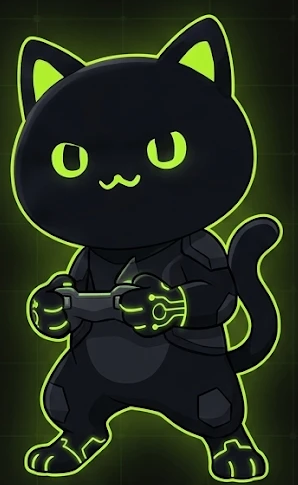
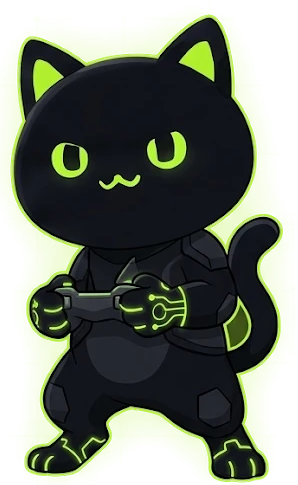
fix(ui): 로그인·가입 화면 반응형 정리, 마스코트 PNG 배경 투명화 (#128)
- AuthLayout: lg 이상 2열 grid(최대 1120px·세로 가운데), 그 아래 작은 브랜드 띠 + 1열 폼
- mascot-controller.png 배경을 투명으로(외곽 글로우는 반투명으로 유지)

diff --git a/frontend/src/features/auth/components/AuthLayout.tsx b/frontend/src/features/auth/components/AuthLayout.tsx
@@ -1,19 +1,28 @@
 import type { ReactNode } from 'react'
 
-// 로그인·가입 공통 2단: 왼쪽 브랜드 패널(md 이상) + 오른쪽 폼. 보드는 셸 없는 전체 화면이지만 셸(헤더·사이드바) 안에서 그린다.
+// 로그인·가입 공통: lg 이상 2열(브랜드 패널 + 폼, 최대 폭·세로 가운데), 그 아래는 작은 브랜드 띠 + 1열 폼. 보드는 셸 없는 전체 화면이지만 셸(헤더·사이드바) 안에서 그린다.
 export default function AuthLayout({ hero, children }: { hero: ReactNode; children: ReactNode }) {
   return (
-    <div className='flex flex-wrap gap-6 lg:gap-10'>
+    <div className='mx-auto grid w-full max-w-[1120px] gap-6 lg:min-h-[calc(100dvh-10rem)] lg:grid-cols-[minmax(0,1fr)_minmax(380px,440px)] lg:items-center lg:gap-12'>
       <section
-        className='chamfer relative hidden min-h-[460px] grow basis-[420px] flex-col overflow-hidden bg-surface bg-cover bg-center p-10 [--c:12px] md:flex'
+        className='chamfer relative flex items-center justify-between gap-4 overflow-hidden bg-surface bg-cover bg-center px-5 py-4 [--c:8px] lg:hidden'
+        style={{ backgroundImage: 'url(/brand/bg-speed.jpg)' }}
+      >
+        <div className='absolute inset-0 bg-linear-to-r from-bg/20 to-bg/75' />
+        <div className='relative flex flex-col gap-2'>
+          <img src='/brand/logo-flutch.png' alt='FLUTCH' className='h-8 self-start' />
+          <span className='font-display text-sm font-bold tracking-wide text-brand italic'>Feel the Moment. Live on FLUTCH.</span>
+        </div>
+        <img src='/brand/mascot-controller.png' alt='' className='relative h-24 w-auto shrink-0 object-contain' />
+      </section>
+      <section
+        className='chamfer relative hidden min-h-[520px] flex-col overflow-hidden bg-surface bg-cover bg-center p-10 [--c:12px] lg:flex'
         style={{ backgroundImage: 'url(/brand/bg-speed.jpg)' }}
       >
         <div className='absolute inset-0 bg-linear-to-r from-bg/20 to-bg/75' />
         <div className='relative flex grow flex-col justify-between gap-6'>{hero}</div>
       </section>
-      <section className='flex grow basis-[400px] justify-center py-2 md:py-6'>
-        <div className='w-full max-w-[420px]'>{children}</div>
-      </section>
+      <section className='w-full max-w-[440px] py-2 lg:py-6'>{children}</section>
     </div>
   )
 }
